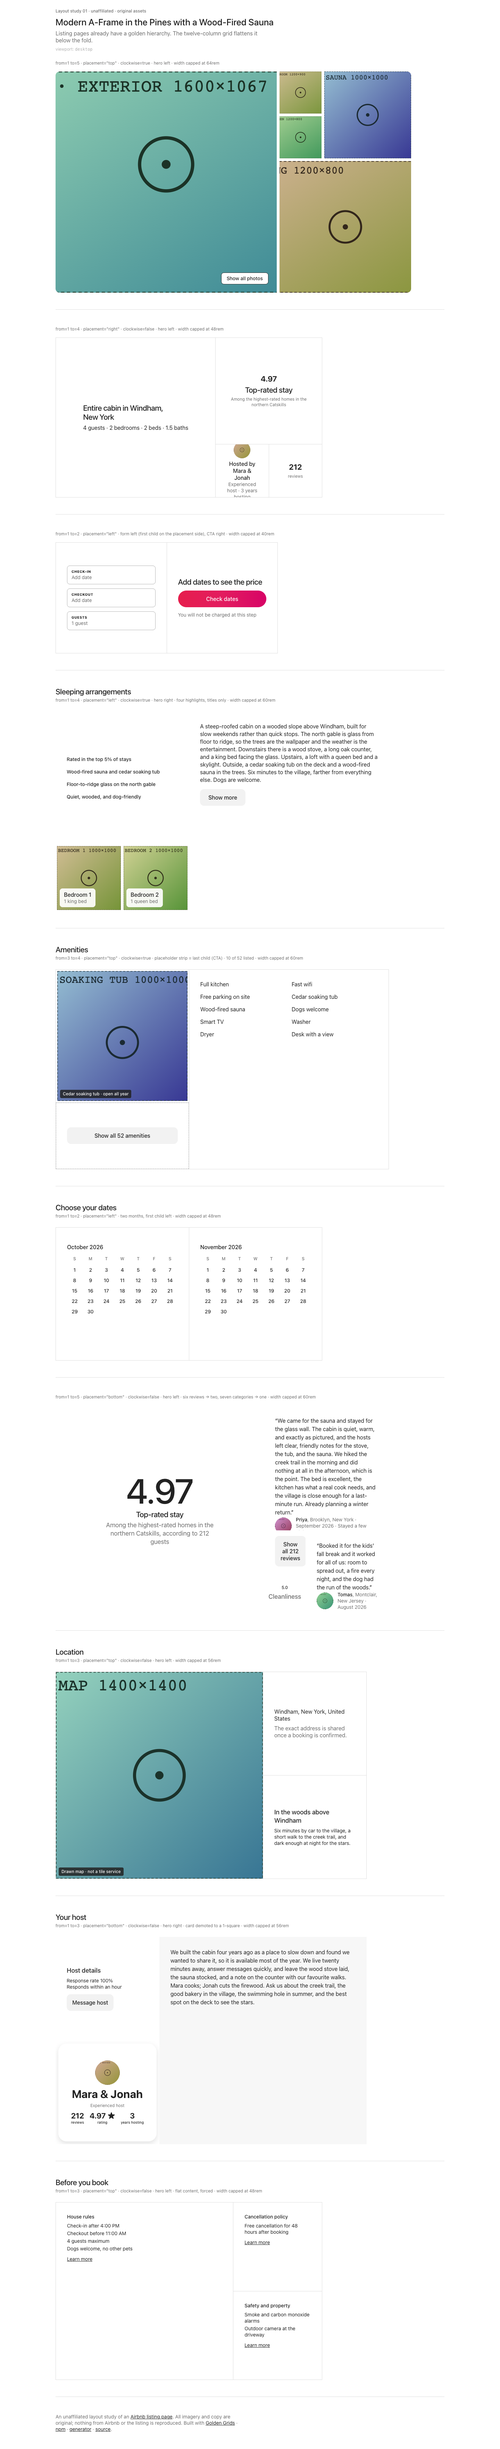
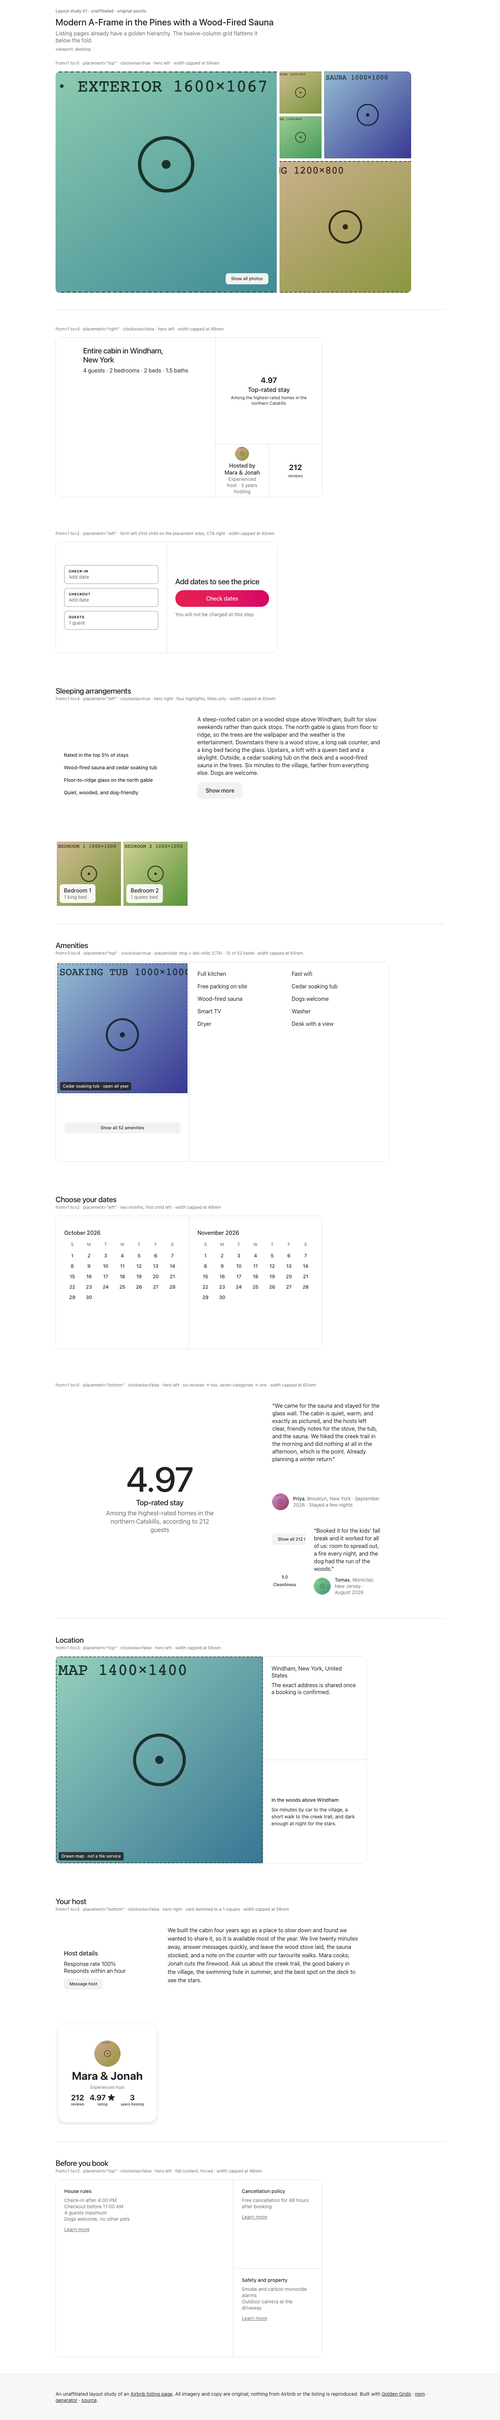
fix: colour, line and spacing corrections from the comparison pass
No dashed lines (the reference has none); outlined grids read as 12px cards
and their bottom edge is the section rule; form fields at #8c8c8c; host
bio on white; footer as the full-bleed #f7f7f7 strip; badge blurb, count
and location note in the primary tier; things-to-know lines in the
secondary tier; 24px box padding (16 at 390); 32px section rhythm at 390;
edge-to-edge mosaic at 390; the reference's 32px chip in 1-square CTAs and
on the photo button; reviewer and review type per width; host card padding.
Featured review trimmed to fit its box (50 words).

diff --git a/src/styles.css b/src/styles.css
@@ -11,7 +11,8 @@
   --bg: #ffffff;
   --fg: #222222;                        /* rgb(34,34,34): 199 of 307 text nodes */
   --muted: #6c6c6c;                     /* secondary text */
-  --faint: #b0b0b0;                     /* tertiary text, field borders */
+  --faint: #b0b0b0;                     /* tertiary text */
+  --field-line: #8c8c8c;                /* form field borders */
   --line: #dddddd;                      /* every section divider: 1px solid */
   --line-light: #f2f2f2;                /* hairlines inside cards */
   --surface: #f7f7f7;                   /* footer ground */
@@ -59,17 +60,23 @@ button { font-family: inherit; }
 .masthead h1 { font: 500 26px/30px var(--font); margin: 0 0 8px; letter-spacing: normal; }
 .masthead__kicker { font: 500 12px/16px var(--font); color: var(--muted); margin: 0 0 8px; }
 .masthead__claim { font: 400 16px/20px var(--font); color: var(--muted); margin: 0 0 8px; max-width: var(--measure); }
-.masthead__viewport { font: 400 12px/16px var(--font); color: var(--faint); margin: 8px 0 0; }
+.masthead__viewport { font: 400 12px/16px var(--font); color: var(--muted); margin: 8px 0 0; }
+.masthead__viewport code { font: inherit; }
 
 .band { padding-block: 48px; border-top: 1px solid var(--line); }
 .band:first-of-type, .band--flush { border-top: 0; }
 .band--flush { padding-top: 24px; }
-.band__header { margin-bottom: 24px; }
-.band__title { font: 500 22px/26px var(--font); letter-spacing: -0.02em; margin: 0 0 4px; }
+/* A card's own bottom edge is the section rule; no second rule 48px below it. */
+.band:has(.band__wrap--card) + .band, .band:has(.band__wrap--card) + .colophon { border-top: 0; }
+@media (max-width: 639px) { .band { padding-block: 32px; } .band--flush { padding-top: 16px; } }
+.band__header { margin-bottom: 16px; }
+.band__title { font: 500 22px/26px var(--font); letter-spacing: -0.02em; margin: 0 0 2px; }
 @media (max-width: 639px) { .band__title { font-weight: 600; } }
 .band__lesson { max-width: var(--measure); margin: 0 0 4px; font: 400 16px/20px var(--font); }
 .band__note { font: 400 12px/16px var(--font); color: var(--muted); margin: 0; }
 .band__wrap { width: 100%; }
+/* Outlined grids read as the reference's cards: 12px corners, 1px #ddd edge. */
+.band__wrap--card { border-radius: var(--radius); overflow: hidden; }
 
 /* --- How media fills a slot -------------------------------------------- */
 .media { margin: 0; width: 100%; height: 100%; position: relative; overflow: hidden; background: var(--line-light); }
@@ -77,9 +84,15 @@ button { font-family: inherit; }
 .media.media--inset { position: absolute; inset: 4px; width: auto; height: auto; border-radius: 0; }
 /* The mosaic: 8px gutters from 4px insets, outer edges flush (the grid grows
    4px past its wrap on every side and the wrap clips), 12px corners on the
-   whole mosaic rather than on each photograph — as the reference draws it. */
+   whole mosaic rather than on each photograph — as the reference draws it.
+   At 390 the reference's photo bleeds edge to edge with square corners. */
 .rounded .band__wrap { border-radius: var(--radius); overflow: hidden; }
 .rounded .golden-grid { width: calc(100% + 8px); margin: -4px; }
+@media (max-width: 639px) {
+  .rounded { width: 100%; }
+  .rounded .band__header { padding-inline: var(--gutter); }
+  .rounded .band__wrap { border-radius: 0; }
+}
 
 .media__tag {
   position: absolute; left: 8px; bottom: 8px;
@@ -95,7 +108,8 @@ button { font-family: inherit; }
 @media (prefers-reduced-motion: reduce) { .media video { display: none; } .media .media__poster { display: block; } }
 
 /* --- Copy slots ---------------------------------------------------------- */
-.copy { width: 100%; height: 100%; position: relative; padding: clamp(12px, 3cqw, 32px); overflow: hidden; container-type: size; }
+.copy { width: 100%; height: 100%; position: relative; padding: 24px; overflow: hidden; container-type: size; }
+@media (max-width: 639px) { .copy { padding: 16px; } }
 .copy p { margin: 0; }
 .copy--center { display: flex; flex-direction: column; justify-content: center; }
 .copy--prose p { max-width: var(--measure); font: 400 16px/24px var(--font); margin-bottom: 16px; }
@@ -105,7 +119,8 @@ button { font-family: inherit; }
 .copy--quote p { font: 400 16px/24px var(--font); max-width: 44ch; }
 .copy--tiny { padding: 4px; }
 
-.placeholder-slot { outline: 1px dashed var(--faint); outline-offset: -1px; }
+/* The reference draws no dashed lines; the placeholder slot is bounded by the grid's own 1px edge. */
+.placeholder-slot { outline: 0; }
 
 /* --- Buttons: the reference's two ----------------------------------------- */
 .btn {
@@ -119,11 +134,10 @@ button { font-family: inherit; }
 /* The reference has one secondary button size; .btn--small only lets the
    label wrap inside a small box. */
 .btn--small { white-space: normal; padding: 14px 16px; }
-.media .btn--corner {
-  position: absolute; right: 24px; bottom: 24px;
-  font: 500 14px/18px var(--font); padding: 7px 15px;
-  background: #fff; color: var(--fg); border: 1px solid var(--fg); border-radius: 8px;
-}
+/* "Show all photos": the reference's 32px secondary chip (12px/500, #f2f2f2, 8px). */
+.media .btn--corner { position: absolute; right: 24px; bottom: 24px; font: 500 12px/16px var(--font); padding: 8px 16px; background: var(--btn); color: var(--fg); border: 0; border-radius: 8px; }
+/* The same chip inside a 1-square, where a 48px button cannot fit. */
+.btn--chip { font: 500 12px/16px var(--font); padding: 8px 16px; border-radius: 8px; white-space: nowrap; }
 
 /* --- Text chips, lists, stats --------------------------------------------- */
 .chip { display: inline-block; font: 500 12px/16px var(--font); padding: 4px 8px; border-radius: 4px; background: var(--tag-bg); color: var(--tag-fg); }
@@ -133,7 +147,8 @@ button { font-family: inherit; }
 .list li { break-inside: avoid; }
 .highlights { margin: 0; padding: 0; list-style: none; display: grid; gap: 16px; }
 .highlights li { font: 500 14px/20px var(--font); }
-.facts { display: grid; gap: 8px; align-content: center; }
+.facts { display: grid; gap: 8px; align-content: start; }
+@media (max-width: 639px) { #facts .facts { align-content: center; text-align: center; } }
 .facts strong { font: 500 22px/26px var(--font); letter-spacing: -0.02em; max-width: 18ch; }
 .facts span, .facts p { font: 400 16px/20px var(--font); }
 .facts .muted { color: var(--muted); }
@@ -142,23 +157,34 @@ button { font-family: inherit; }
   #facts .facts strong, #facts .facts span { font: 400 14px/18px var(--font); letter-spacing: normal; color: var(--muted); }
 }
 /* The badge numerals and the host card share the reference's 22px/700 figures. */
-#facts .score__n { font: 700 22px/26px var(--font); letter-spacing: normal; }
-#facts .score__sub { font: 400 12px/16px var(--font); }
+#facts .score__n { font: 500 18px/24px var(--font); letter-spacing: normal; }
+@media (min-width: 1100px) { #facts .score__n { font: 700 22px/26px var(--font); } }
+#facts .score .score__sub { font: 400 12px/16px var(--font); color: var(--fg); }
+#facts .score__sub--count { font-weight: 500; }
+#facts .score__label { font: 500 16px/20px var(--font); letter-spacing: normal; }
+@media (min-width: 1100px) { #facts .score__label { font-size: 18px; line-height: 22px; } #facts .score__sub--blurb { font: 400 16px/20px var(--font); } }
+@media (min-width: 640px) and (max-width: 1099px) { #facts .score__sub--blurb { display: none; } }
+#facts .score .avatar { width: 40px; }
+#facts .score { gap: 4px; }
 #facts .host-line { font: 500 16px/20px var(--font); color: var(--fg); }
 #facts .host-line small { display: block; font: 400 14px/18px var(--font); color: var(--muted); }
 @media (max-width: 639px) {
-  #facts .score__n { font: 500 18px/20px var(--font); }
-  #facts .score__label { font: 500 14px/20px var(--font); letter-spacing: normal; }
+  #facts .score__label { font: 500 14px/20px var(--font); }
   #facts .score__sub--blurb { display: none; }
 }
 .rules { font: 400 14px/18px var(--font); }
 .rules h4 { margin: 0 0 8px; font: 500 14px/18px var(--font); }
-#host .rules h4, #location .rules h4 { font: 500 18px/24px var(--font); }
-.rules ul { margin: 0; padding: 0; list-style: none; display: grid; gap: 4px; }
+#host .rules h4 { font: 500 18px/24px var(--font); }
+#host .rules p { font: 400 16px/20px var(--font); }
+#location .rules h4 { font: 500 14px/20px var(--font); }
+#location .rules p { line-height: 20px; }
+#things .rules li, #things .rules a { color: var(--muted); }
+.rules ul { margin: 0; padding: 0; list-style: none; display: grid; gap: 0; }
 .rules p { margin-top: 12px; }
 .rules--rows { display: grid; }
-.rules__row { padding: 24px 0; border-top: 1px solid var(--line); }
-.rules__row:last-child { border-bottom: 1px solid var(--line); }
+.rules__row { padding: 12px 0; }
+.rules__row:first-child { padding-top: 0; }
+.rules__row:last-child { padding-bottom: 0; }
 .stat { display: flex; flex-direction: column; justify-content: flex-end; height: 100%; }
 .stat--on-fill { color: var(--fg); }
 .stat__n { font: 500 clamp(24px, 30cqw, 100px)/1 var(--font); letter-spacing: -0.02em; }
@@ -170,28 +196,29 @@ button { font-family: inherit; }
 .score__n { font: 500 100px/1 var(--font); letter-spacing: -0.02em; }
 @media (max-width: 639px) { .score__n { font-size: 72px; } }
 .score__label { font: 500 22px/26px var(--font); letter-spacing: -0.02em; }
+@media (max-width: 639px) { #reviews .score__label { font-size: 26px; line-height: 30px; } }
 .score__sub { font: 400 14px/20px var(--font); color: var(--muted); max-width: 30ch; }
-@media (min-width: 1100px) { #reviews .score__sub { font-size: 18px; line-height: 24px; } }
-/* Category cell: 12px/500 score over a 12px label, as the reference's row. */
-.score--category .score__n { font: 500 12px/16px var(--font); letter-spacing: normal; }
-.score--category .score__sub { font: 500 12px/16px var(--font); }
+@media (min-width: 1100px) { #reviews .score:not(.score--category) .score__sub { font-size: 18px; line-height: 24px; } }
+/* Category cell: 12px/500 score over a 12px/500 label, both #222, as the reference's row. */
+#reviews .score--category .score__n { font: 500 12px/16px var(--font); letter-spacing: normal; }
+#reviews .score--category .score__sub { font: 500 12px/16px var(--font); color: var(--fg); }
 .score .btn { margin-top: 12px; }
 
 /* Booking form: grouped fields with 1px #b0b0b0 borders and 8px corners. */
 .form { display: grid; gap: 12px; align-content: center; height: 100%; }
-.field { display: grid; gap: 2px; border: 1px solid var(--faint); border-radius: 8px; padding: 10px 12px; }
+.field { display: grid; gap: 2px; border: 1px solid var(--field-line); border-radius: 8px; padding: 10px 12px; }
 .field span { font: 800 10px/12px var(--font); text-transform: uppercase; letter-spacing: 0.04em; }
 .field input { font: 400 14px/18px var(--font); border: 0; background: transparent; color: var(--fg); width: 100%; padding: 0; }
 .field input::placeholder { color: var(--muted); }
 
 /* Review cards, avatars, the host card (white, 24px corners, soft shadow). */
 .review { display: flex; flex-direction: column; justify-content: space-between; height: 100%; }
-.review p { font: 400 16px/24px var(--font); max-width: 44ch; }
-@media (max-width: 639px) { .review p { line-height: 20px; } }
+.review p { font: 400 16px/22px var(--font); max-width: 44ch; margin-bottom: 12px; }
+@media (max-width: 639px) { .review p { font-size: 14px; line-height: 20px; } .review__who { font-size: 12px; line-height: 16px; } }
 .review__who { display: flex; align-items: center; gap: 12px; font: 400 14px/18px var(--font); color: var(--muted); }
 .review__who strong { font-weight: 500; color: var(--fg); }
 .avatar { width: 48px; aspect-ratio: 1; border-radius: 50%; object-fit: cover; flex: none; }
-.card { position: absolute; inset: 8px; display: grid; gap: 8px; justify-items: center; align-content: center; text-align: center; padding: 16px; background: #fff; border-radius: 24px; box-shadow: 0 6px 16px rgba(0, 0, 0, 0.12); }
+.card { position: absolute; inset: 8px; display: grid; gap: 8px; justify-items: center; align-content: center; text-align: center; padding: 24px; background: #fff; border-radius: 24px; box-shadow: 0 6px 16px rgba(0, 0, 0, 0.12); }
 .card .avatar { width: clamp(64px, 30cqw, 104px); }
 .card__name { font: 700 32px/36px var(--font); letter-spacing: normal; }
 .card__stats { display: flex; gap: 16px; text-align: center; }
@@ -210,6 +237,12 @@ button { font-family: inherit; }
 /* What a dropped band leaves behind. */
 .stub { border: 1px dashed var(--faint); border-radius: var(--radius); padding: 16px; color: var(--muted); font: 400 14px/20px var(--font); }
 
-.colophon { padding-block: 48px; border-top: 1px solid var(--line); color: var(--muted); font: 400 14px/18px var(--font); }
-.colophon p { max-width: var(--measure); margin: 0; }
+/* The closing strip is full-bleed #f7f7f7 with #222 text, as the reference's footer. */
+.colophon { width: 100%; padding: 48px var(--gutter); background: var(--surface); border-top: 1px solid var(--line); color: var(--fg); font: 400 14px/18px var(--font); }
+.colophon p { max-width: var(--content); margin: 0 auto; }
+@media (max-width: 639px) { .colophon { padding-block: 32px; } }
 .band__header--hidden { margin-bottom: 16px; }
+
+/* Secondary buttons: full-width blocks at 390, as the reference; hug the label above. */
+@media (max-width: 639px) { #about .btn, #host .btn:not(.btn--chip) { display: block; width: 100%; } }
+@media (max-width: 639px) { #host .copy--prose p { margin-bottom: 12px; } #host .review__who { margin-bottom: 12px !important; } .card__name--inline { margin-bottom: 4px; } }

diff --git a/src/bands/HostBand.tsx b/src/bands/HostBand.tsx
@@ -26,7 +26,7 @@ export function HostBand() {
   return (
     <Band id="host" title={listing.labels.host} note={single ? "from=1 to=1 · single · card, bio, details and CTA in one box" : 'from=1 to=3 · placement="bottom" · clockwise=false · hero right · card demoted to a 1-square'} cap="56rem">
       <GoldenGrid from={1} to={single ? 1 : 3} placement="bottom" clockwise={false}>
-        <GoldenBox style={{ background: "var(--surface)" }}>
+        <GoldenBox>
           <div className="copy copy--prose">
             {single && (
               <>
@@ -38,12 +38,7 @@ export function HostBand() {
               </>
             )}
             <p>{hostBio[viewport]}</p>
-            {single && (
-              <>
-                <p className="score__sub">Response rate {h.responseRate} · Responds {h.responseTime}</p>
-                <p><button type="button" className="btn btn--small">{listing.cta.message}</button></p>
-              </>
-            )}
+            {single && <p><button type="button" className="btn">{listing.cta.message}</button></p>}
           </div>
         </GoldenBox>
         <GoldenBox>
@@ -60,7 +55,7 @@ export function HostBand() {
           <div className="copy copy--center rules">
             <h4>Host details</h4>
             <p style={{ margin: "0 0 12px" }}>Response rate {h.responseRate}<br />Responds {h.responseTime}</p>
-            <p style={{ margin: 0 }}><button type="button" className="btn btn--small">{listing.cta.message}</button></p>
+            <p style={{ margin: 0 }}><button type="button" className="btn btn--chip">{listing.cta.message}</button></p>
           </div>
         </GoldenBox>
       </GoldenGrid>

diff --git a/src/bands/FactsBand.tsx b/src/bands/FactsBand.tsx
@@ -27,7 +27,6 @@ const avatar = placeholderImage("HOST", 400, 400, 20);
  */
 export function FactsBand() {
   const mobile = useViewport() === "mobile";
-  const hostLine = `Hosted by ${listing.host.name} · ${listing.host.tag} · ${listing.host.years} years hosting`;
   return (
     <Band
       id="facts"
@@ -35,13 +34,14 @@ export function FactsBand() {
       hideTitle
       note={mobile ? 'from=1 to=3 · placement="top" · clockwise=true · hero right · host merged into hero' : 'from=1 to=4 · placement="right" · clockwise=false · hero left'}
       cap="48rem"
+      card
     >
       <GoldenGrid from={1} to={mobile ? 3 : 4} placement={mobile ? "top" : "right"} clockwise={mobile} outline="1px solid var(--line)">
         <GoldenBox>
           <div className="copy copy--center facts">
             <strong>{listing.summary}</strong>
             <span>{listing.capacity.join(" · ")}</span>
-            {mobile && <p className="muted">{hostLine}</p>}
+            {mobile && <p className="host-line">Hosted by {listing.host.name}<small>{listing.host.tag} · {listing.host.years} years hosting</small></p>}
           </div>
         </GoldenBox>
         <GoldenBox>
@@ -54,7 +54,7 @@ export function FactsBand() {
         <GoldenBox>
           <div className="copy score">
             <span className="score__n">{listing.reviewCount}</span>
-            <span className="score__sub">reviews</span>
+            <span className="score__sub score__sub--count">reviews</span>
           </div>
         </GoldenBox>
         <GoldenBox>

diff --git a/src/bands/AmenitiesBand.tsx b/src/bands/AmenitiesBand.tsx
@@ -25,7 +25,7 @@ export function AmenitiesBand() {
   const to = from === 1 ? 3 : 4;
   const items = viewport === "desktop" ? listing.amenities : listing.amenities.slice(0, 5);
   return (
-    <Band id="amenities" title={listing.labels.amenities} note={`from=${from} to=${to} · placement="top" · clockwise=true · ${from > 1 ? "placeholder strip = last child (CTA)" : "no placeholder"} · ${items.length} of ${listing.amenityTotal} listed`} cap="60rem">
+    <Band id="amenities" title={listing.labels.amenities} note={`from=${from} to=${to} · placement="top" · clockwise=true · ${from > 1 ? "placeholder strip = last child (CTA)" : "no placeholder"} · ${items.length} of ${listing.amenityTotal} listed`} cap="60rem" card>
       <GoldenGrid from={from} to={to} placement="top" outline="1px solid var(--line)">
         <GoldenBox>
           <div className="copy list">
@@ -40,7 +40,7 @@ export function AmenitiesBand() {
         </GoldenBox>
         <GoldenBox className="placeholder-slot">
           <div className="copy copy--center">
-            <button type="button" className="btn btn--small">{listing.cta.showAmenities} {listing.amenityTotal}{viewport === "mobile" ? "" : " amenities"}</button>
+            <button type="button" className="btn btn--chip">{listing.cta.showAmenities} {listing.amenityTotal}{viewport === "mobile" ? "" : " amenities"}</button>
           </div>
         </GoldenBox>
       </GoldenGrid>

diff --git a/src/content.ts b/src/content.ts
@@ -66,7 +66,7 @@ export const featuredReview: Record<Viewport, string> = {
   tablet:
     "We came for the sauna and stayed for the glass wall. The cabin is quiet, warm, and exactly as pictured, and the hosts left clear notes for the stove and the tub. We hiked in the morning and did nothing at all in the afternoon. Already planning a winter return.",
   desktop:
-    "We came for the sauna and stayed for the glass wall. The cabin is quiet, warm, and exactly as pictured, and the hosts left clear, friendly notes for the stove, the tub, and the sauna. We hiked the creek trail in the morning and did nothing at all in the afternoon, which is the point. The bed is excellent, the kitchen has what a real cook needs, and the village is close enough for a last-minute run. Already planning a winter return.",
+    "We came for the sauna and stayed for the glass wall. The cabin is quiet, warm, and exactly as pictured, and the hosts left clear, friendly notes for the stove, the tub, and the sauna. We hiked the creek trail in the morning and did nothing at all in the afternoon, which is the point. Already planning a winter return.",
 };
 
 export const secondReview =

diff --git a/src/bands/LocationBand.tsx b/src/bands/LocationBand.tsx
@@ -23,7 +23,7 @@ const map = placeholderImage("MAP", 1400, 1400, 160, { x: 0.5, y: 0.5 });
 export function LocationBand() {
   const mobile = useViewport() === "mobile";
   return (
-    <Band id="location" title={listing.labels.location} note={mobile ? 'from=1 to=3 · placement="right" · clockwise=false · hero top (2:3 portrait)' : 'from=1 to=3 · placement="top" · clockwise=false · hero left'} cap="56rem">
+    <Band id="location" title={listing.labels.location} note={mobile ? 'from=1 to=3 · placement="right" · clockwise=false · hero top (2:3 portrait)' : 'from=1 to=3 · placement="top" · clockwise=false · hero left'} cap="56rem" card>
       <GoldenGrid from={1} to={3} placement={mobile ? "right" : "top"} clockwise={false} outline="1px solid var(--line)">
         <GoldenBox>
           <figure className="media">
@@ -34,7 +34,7 @@ export function LocationBand() {
         <GoldenBox>
           <div className="copy copy--center facts">
             <p>{listing.town.line}</p>
-            <p className="muted">{listing.town.note}</p>
+            <p>{listing.town.note}</p>
           </div>
         </GoldenBox>
         <GoldenBox>

diff --git a/src/bands/Band.tsx b/src/bands/Band.tsx
@@ -12,7 +12,7 @@ import type { ReactNode } from "react";
  * how a study keeps tall bands in check. Never re-range the grid for height.
  */
 export function Band({
-  id, title, lesson, note, cap, hideTitle, flush, rounded, children,
+  id, title, lesson, note, cap, hideTitle, flush, rounded, card, children,
 }: {
   id: string;
   title: string;
@@ -25,6 +25,8 @@ export function Band({
   flush?: boolean;
   /** Round the grid's corners, as the reference's photo mosaic does. */
   rounded?: boolean;
+  /** An outlined grid reads as one of the reference's cards: 12px corners. */
+  card?: boolean;
   children: ReactNode;
 }) {
   return (
@@ -34,7 +36,7 @@ export function Band({
         {lesson && <p className="band__lesson">{lesson}</p>}
         {note && <p className="band__note">{note}{cap ? ` · width capped at ${cap}` : ""}</p>}
       </header>
-      <div className="band__wrap" style={cap ? { maxWidth: cap } : undefined}>
+      <div className={card ? "band__wrap band__wrap--card" : "band__wrap"} style={cap ? { maxWidth: cap } : undefined}>
         {children}
       </div>
     </section>

diff --git a/src/bands/BookBand.tsx b/src/bands/BookBand.tsx
@@ -25,7 +25,7 @@ export function BookBand() {
   const single = useViewport() === "mobile";
   const f = listing.fields;
   return (
-    <Band id="book" title={listing.labels.book} hideTitle note={single ? 'from=1 to=1 · single · CTA merged into the form · a 366px square standing in for a ~110px bar' : 'from=1 to=2 · placement="left" · form left (first child on the placement side), CTA right'} cap="40rem">
+    <Band id="book" title={listing.labels.book} hideTitle note={single ? 'from=1 to=1 · single · CTA merged into the form · a 366px square standing in for a ~110px bar' : 'from=1 to=2 · placement="left" · form left (first child on the placement side), CTA right'} cap="40rem" card>
       <GoldenGrid from={1} to={single ? 1 : 2} placement="left" outline="1px solid var(--line)">
         <GoldenBox>
           <form className="copy form" onSubmit={(e) => e.preventDefault()}>

diff --git a/src/bands/DatesBand.tsx b/src/bands/DatesBand.tsx
@@ -30,7 +30,7 @@ function Month({ name }: { name: string }) {
 export function DatesBand() {
   const single = useViewport() === "mobile";
   return (
-    <Band id="dates" title={listing.labels.dates} note={single ? "from=1 to=1 · single · one month" : 'from=1 to=2 · placement="left" · two months, first child left'} cap="48rem">
+    <Band id="dates" title={listing.labels.dates} note={single ? "from=1 to=1 · single · one month" : 'from=1 to=2 · placement="left" · two months, first child left'} cap="48rem" card>
       <GoldenGrid from={1} to={single ? 1 : 2} placement="left" outline="1px solid var(--line)">
         <GoldenBox><Month name={listing.months[0]} /></GoldenBox>
         <GoldenBox><Month name={listing.months[1]} /></GoldenBox>

diff --git a/src/bands/ThingsBand.tsx b/src/bands/ThingsBand.tsx
@@ -28,7 +28,7 @@ export function ThingsBand() {
     </>
   );
   return (
-    <Band id="things" title={listing.labels.things} note={mobile ? "no grid at 390 · three plain rows, as the reference" : 'from=1 to=3 · placement="top" · clockwise=false · hero left · flat content, forced'} cap="48rem">
+    <Band id="things" title={listing.labels.things} note={mobile ? "no grid at 390 · three plain rows, as the reference" : 'from=1 to=3 · placement="top" · clockwise=false · hero left · flat content, forced'} cap="48rem" card>
       {mobile ? (
         <div className="rules rules--rows">
           {items.map((it) => <div key={it.title} className="rules__row"><Item it={it} /></div>)}

diff --git a/src/bands/ReviewsBand.tsx b/src/bands/ReviewsBand.tsx
@@ -75,7 +75,7 @@ export function ReviewsBand() {
           </GoldenBox>
         )}
         <GoldenBox>
-          <div className="copy copy--center"><p><button type="button" className="btn btn--small">{listing.cta.showReviews} {listing.reviewCount} reviews</button></p></div>
+          <div className="copy copy--center"><p><button type="button" className="btn btn--chip">{listing.cta.showReviews} {listing.reviewCount} reviews</button></p></div>
         </GoldenBox>
       </GoldenGrid>
     </Band>

diff --git a/README.md b/README.md
@@ -206,7 +206,7 @@ different counts per width, three versions are needed.
 | Amenities | 5 | the reference's own counts, plus the total | 5 / 5 / 10 items + "Show all 69" |
 | Hot tub caption | 5 | "Private hot tub · all year" | 5 |
 | Month names | 6 | two months at 820/1440, one at 390 | 2 |
-| Featured review | 7 | the review that decides a booking | 20 / 40 / 60 |
+| Featured review | 7 | the review that decides a booking | 20 / 40 / 50 |
 | Second review | 7 | a different guest, a different reason | – / – / 25 |
 | Reviewer lines | 7 | name, city, month | 2 × 6 |
 | Category rating | 7 | one of six: label + score | 2 |
